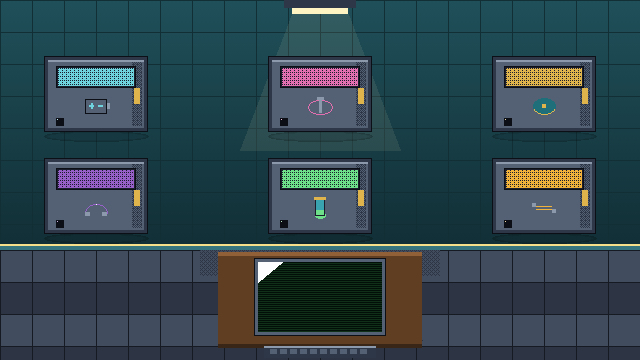
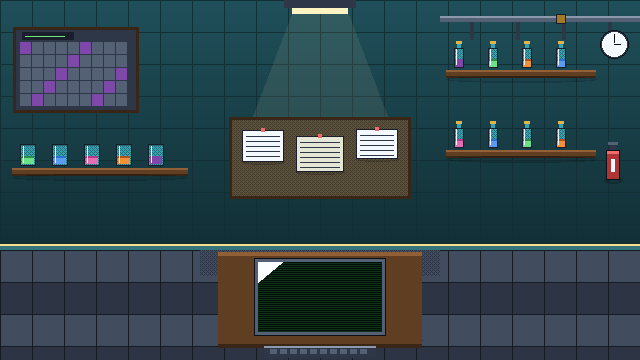
Hub-Szene neu gemalt: Schrank-Boxen raus, Labor-Deko rein
- scene_01_lab_hub.py: 6 Schraenke entfernt; stattdessen PSE-Poster +
  Reagenz-Regal (links), Pinnwand (Mitte), zwei Flaschen-Regale + Uhr +
  Feuerloescher (rechts), Rohrleitung oben. Konsole/Fenster-Platz bleiben.
- Scene1Hub: On-Canvas-LEDs und Ziel-Highlight der alten Boxen entfernt;
  Status liegt jetzt allein in der NavBar.

Claude-Session: https://claude.ai/code/session_016jetyFEwpoXZWLtf8hFDhj

diff --git a/src/scenes/Scene1Hub.js b/src/scenes/Scene1Hub.js
@@ -8,7 +8,6 @@ import {
 import AnimatedSprite from '../engine/AnimatedSprite';
 import { usePixelImage } from '../engine/usePixelImage';
 import { useStageLayout } from '../engine/layout';
-import { useSpriteFrame } from '../engine/useSprite';
 import PixelDialog from '../ui/PixelDialog';
 import Terminal from '../ui/Terminal';
 import CRTOverlay from '../ui/CRTOverlay';
@@ -52,7 +51,6 @@ export default function Scene1Hub({
   );
   const [terminalOpen, setTerminalOpen] = useState(false);
   const [pressed, setPressed] = useState(null);
-  const blink = useSpriteFrame(2, 1.6);
 
   // ── Animated scene state ────────────────────────────────────────────────────
   const [molarX, setMolarX] = useState(MOLAR.x);
@@ -150,12 +148,6 @@ export default function Scene1Hub({
 
   const target = ROOMS.find((r) => !solvedIds.includes(r.id)) || null;
   const busy = !!dialog || terminalOpen || molarLeaving;
-
-  const ledColor = (room) => {
-    if (solvedIds.includes(room.id)) return '#6fe87a';
-    if (target && room.id === target.id) return '#f0b23a';
-    return '#ad3535';
-  };
 
   const onDoor = (room) => {
     if (solvedIds.includes(room.id)) {
@@ -287,17 +279,7 @@ export default function Scene1Hub({
             />
           )}
 
-          {ROOMS.map((r) => (
-            <Group key={`led-${r.id}`}>
-              <Rect x={r.rect.x + 10} y={r.rect.y + r.rect.h - 14} width={8} height={8} color={ledColor(r)} />
-              <Rect x={r.rect.x + 10} y={r.rect.y + r.rect.h - 14} width={3} height={3} color="#ffffff" />
-            </Group>
-          ))}
-
-          {!busy && target && blink === 0 && (
-            <Rect x={target.rect.x - 1} y={target.rect.y - 1} width={target.rect.w + 2} height={target.rect.h + 2}
-              color="#f0b23a" style="stroke" strokeWidth={2} />
-          )}
+          {/* Konsole-Hover-Glow (Navigation/Status liegen in der NavBar) */}
           {!busy && pressed && (
             <PressGlow rectObj={pressed.rect} color={pressed.color} />
           )}

diff --git a/tools/pixelart/scene_01_lab_hub.py b/tools/pixelart/scene_01_lab_hub.py
@@ -1,47 +1,30 @@
 """
-Szene 1 — Molars Labor (Hub), NEUE Komposition. 640x360, Licht oben-links.
-  OBEN     : 6 Wandschraenke in einem 3x2-Raster (je Raum ein Akzent + Icon)
-  UNTEN    : Konsolen-Pult mittig mit CRT-Screen (App malt Status/Codes hinein)
+Szene 1 — Molars Labor (Hub). Komposition OHNE Schrank-Boxen: die Navigation
+laeuft jetzt ueber die untere Leiste (NavBar) in der App. Die Wandflaeche ist
+stattdessen mit Labor-DEKO gefuellt — Periodensystem-Poster, Reagenz-Regale,
+Pinnwand, Uhr, Feuerloescher. Mitte unten bleibt das Konsolen-Pult (Terminal),
+mitte oben bleibt Platz fuer das (in der App animierte) Fenster.
 
-Tap-Rects sind deckungsgleich mit ROOMS in src/config/game.js (Handoff #1):
-Die Schrankgrafik ist so eingerueckt, dass die Rects exakt auf dem Schrank liegen.
-Status-LED + Icon werden in der App eingefaerbt; hier Default-Gehaeuse + Icon.
-
-Exportiert assets/scenes/scene_01_lab_hub.png (+ _preview.png) + scene_01_hotspots.json.
+640x360, Licht oben-links. Exportiert assets/scenes/scene_01_lab_hub.png.
 """
 import os, json
 from palette import (WALL, FLOOR, GROUT, WOOD, BRASS, STEEL, GLASS, GLASS_HI,
-                     CRT, GLOW, INK, INK_SOFT, WHITE)
+                     CRT, GLOW, INK, INK_SOFT, WHITE,
+                     ACID, BASE, PINK, PURPLE, ORANGE, RED)
 import pixel_helpers as H
 
 OUT = os.path.join(os.path.dirname(__file__), "..", "..", "assets", "scenes")
 W, Hh = H.SCENE_W, H.SCENE_H
 FLOOR_Y = 250
 
-# Deckungsgleich mit der App (src/config/game.js) — Handoff #1
+# Nur noch die Konsole ist ein Hotspot (Navigation laeuft ueber die NavBar).
 HOTSPOTS = {
-    "door1": {"x": 44,  "y": 56,  "w": 104, "h": 76},
-    "door2": {"x": 268, "y": 56,  "w": 104, "h": 76},
-    "door3": {"x": 492, "y": 56,  "w": 104, "h": 76},
-    "door4": {"x": 44,  "y": 158, "w": 104, "h": 76},
-    "door5": {"x": 268, "y": 158, "w": 104, "h": 76},
-    "door6": {"x": 492, "y": 158, "w": 104, "h": 76},
     "console": {"x": 258, "y": 262, "w": 124, "h": 70},
 }
 
-# Akzentfarben je Schrank (Reihenfolge = door1..door6 = scene2..7)
-ACC = {
-    "door1": (111, 211, 221),   # Galvanische Zelle  #6fd3dd
-    "door2": (227, 111, 176),   # Opferanode         #e36fb0
-    "door3": (224, 180, 76),    # Rosten             #e0b44c
-    "door4": (150, 96, 200),    # Bromonium          #9660c8
-    "door5": (111, 224, 138),   # Bromwasser         #6fe08a
-    "door6": (240, 178, 58),    # Isomerie E/Z       #f0b23a
-}
-ICON = {
-    "door1": "battery", "door2": "nail", "door3": "rust",
-    "door4": "bridge",  "door5": "tube", "door6": "ez",
-}
+# Frei zu haltende Bereiche (App malt darauf): Fenster + Molar-Standplatz.
+WIN = (205, 14, 230, 94)        # x,y,w,h — Fenster (App)
+CORK = (90, 80, 60)             # Pinnwand-Kork
 
 
 def draw_wall(img, d):
@@ -66,75 +49,120 @@ def draw_lamp(img, d):
                        (W // 2 + 80, 150), (W // 2 - 80, 150)], GLOW[1], 22)
 
 
-def draw_icon(img, d, kind, cx, cy, acc):
-    if kind == "battery":                              # galvanische Zelle
-        H.rect(d, cx - 11, cy - 7, 22, 15, STEEL[1]); H.outline(d, cx - 11, cy - 7, 22, 15, INK)
-        H.rect(d, cx + 11, cy - 3, 3, 6, STEEL[2])
-        H.rect(d, cx - 7, cy - 1, 5, 2, acc); H.rect(d, cx - 5, cy - 3, 2, 6, acc)  # +
-        H.rect(d, cx + 2, cy - 1, 5, 2, acc)                                          # -
-    elif kind == "nail":                               # Opferanode (Nagel im Tropfen)
-        d.ellipse([cx - 12, cy - 6, cx + 12, cy + 8], outline=acc)
-        H.rect(d, cx - 1, cy - 9, 3, 16, STEEL[2]); H.rect(d, cx - 3, cy - 9, 7, 3, STEEL[2])
-    elif kind == "rust":                               # Rosten (Tropfen + Rostkante)
-        d.ellipse([cx - 11, cy - 8, cx + 11, cy + 8], fill=GLASS[0])
-        d.arc([cx - 11, cy - 8, cx + 11, cy + 8], 20, 160, fill=acc)
-        H.rect(d, cx - 2, cy - 2, 4, 4, acc)
-    elif kind == "bridge":                             # Bromonium-Bruecke
-        d.arc([cx - 11, cy - 4, cx + 11, cy + 14], 180, 360, fill=acc)
-        H.rect(d, cx - 11, cy + 4, 5, 4, STEEL[2]); H.rect(d, cx + 6, cy + 4, 5, 4, STEEL[2])
-        img.putpixel((cx, cy - 4), (*WHITE, 200))
-    elif kind == "tube":                               # Reagenzglas
-        H.rect(d, cx - 5, cy - 10, 10, 18, GLASS[1]);
-        d.ellipse([cx - 5, cy + 4, cx + 5, cy + 10], fill=acc)
-        H.rect(d, cx - 5, cy + 2, 10, 6, acc); H.outline(d, cx - 5, cy - 10, 10, 18, INK_SOFT)
-        H.rect(d, cx - 6, cy - 11, 12, 3, BRASS[2])
-    elif kind == "ez":                                 # E/Z Doppelbindung
-        H.hline(d, cx - 10, cy - 2, 20, acc); H.hline(d, cx - 10, cy + 1, 20, acc)
-        H.rect(d, cx - 12, cy - 5, 4, 4, STEEL[2]); H.rect(d, cx + 8, cy + 1, 4, 4, STEEL[2])
-        H.rect(d, cx - 12, cy + 1, 4, 4, STEEL[1]); H.rect(d, cx + 8, cy - 5, 4, 4, STEEL[1])
+# ── Deko-Bausteine ────────────────────────────────────────────────────────────
+def draw_beaker(img, d, x, y, ramp):
+    w, h = 16, 22
+    H.rect(d, x, y, w, h, GLASS[0])
+    H.dither_rect(img, x + 1, y + 2, w - 2, h - 3, GLASS[1], GLASS[0], 0.4)
+    H.rect(d, x + 2, y + h - 10, w - 4, 8, ramp[-1])
+    H.rect(d, x + 2, y + h - 10, w - 4, 2, ramp[0])
+    H.vline(d, x + 3, y + 2, h - 5, GLASS_HI)
+    H.outline(d, x, y, w, h, INK_SOFT)
+    img.putpixel((x + 3, y + 3), (*GLASS_HI, 200))
 
 
-def draw_cabinet(img, d, key):
-    hs = HOTSPOTS[key]
-    x, y, w, h = hs["x"], hs["y"], hs["w"], hs["h"]
-    acc = ACC[key]
-    H.soft_shadow(img, x + w // 2, y + h + 4, w // 2, 5, 60)
-    # Gehaeuse
-    H.rect(d, x, y, w, h, STEEL[0]); H.outline(d, x, y, w, h, INK)
-    H.rect(d, x + 4, y + 4, w - 8, h - 8, STEEL[1])
-    H.rect(d, x + 4, y + 4, w - 8, 2, STEEL[2])              # Lichtkante oben
-    H.dither_rect(img, x + w - 16, y + 6, 10, h - 12, STEEL[1], STEEL[0], 0.6)
-    # Sichtfenster oben (accent-getoent)
-    H.rect(d, x + 12, y + 10, w - 24, 22, INK_SOFT)
-    H.dither_rect(img, x + 14, y + 12, w - 28, 18, acc, INK_SOFT, 0.22)
-    H.outline(d, x + 12, y + 10, w - 24, 22, INK)
-    # Etched icon (accent)
-    draw_icon(img, d, ICON[key], x + w // 2, y + 50, acc)
-    # Griff rechts + Status-LED-Sockel (App malt Farbe)
-    H.rect(d, x + w - 14, y + h // 2 - 6, 6, 16, BRASS[2])
-    H.rect(d, x + 12, y + h - 14, 8, 8, INK)
-    img.putpixel((x + 13, y + h - 13), (*acc, 120))
+def draw_bottle(img, d, x, y, ramp):
+    H.rect(d, x + 3, y, 4, 5, GLASS[1])          # Hals
+    H.rect(d, x + 2, y - 2, 6, 3, BRASS[2])      # Kappe
+    H.rect(d, x, y + 5, 10, 20, GLASS[0])        # Koerper
+    H.dither_rect(img, x + 1, y + 6, 8, 18, GLASS[1], GLASS[0], 0.4)
+    H.rect(d, x + 1, y + 16, 8, 9, ramp[-1])     # Fuellung
+    H.rect(d, x + 1, y + 16, 8, 2, ramp[0])
+    H.vline(d, x + 2, y + 6, 16, GLASS_HI)
+    H.outline(d, x, y + 5, 10, 20, INK_SOFT)
+
+
+def draw_shelf(img, d, sx, sy, sw, items, kind="beaker"):
+    H.rect(d, sx, sy, sw, 6, WOOD[1])
+    H.rect(d, sx, sy, sw, 2, WOOD[2])
+    H.rect(d, sx, sy + 6, sw, 2, WOOD[0])
+    H.soft_shadow(img, sx + sw // 2, sy + 9, sw // 2, 3, 50)
+    n = len(items)
+    gap = (sw - 12) // n
+    for i, ramp in enumerate(items):
+        gx = sx + 8 + i * gap
+        if kind == "bottle":
+            draw_bottle(img, d, gx, sy - 27, ramp)
+        else:
+            draw_beaker(img, d, gx, sy - 24, ramp)
+
+
+def draw_poster(img, d, x, y, w, h):
+    H.rect(d, x - 3, y - 3, w + 6, h + 6, WOOD[0])      # Rahmen
+    H.rect(d, x, y, w, h, STEEL[0])
+    cols, rows = 9, 5
+    cw = (w - 8) // cols
+    ch = (h - 14) // rows
+    for r in range(rows):
+        for c in range(cols):
+            cell = PURPLE[0] if (r + c) % 5 == 0 else STEEL[1]
+            H.rect(d, x + 4 + c * cw, y + 12 + r * ch, cw - 1, ch - 1, cell)
+    H.rect(d, x + 6, y + 2, 52, 8, INK_SOFT)           # Titelschild
+    H.hline(d, x + 9, y + 6, 40, CRT[2])               # "PSE"-Glow
+
+
+def draw_corkboard(img, d, x, y, w, h):
+    H.rect(d, x - 3, y - 3, w + 6, h + 6, WOOD[0])
+    H.rect(d, x, y, w, h, CORK)
+    H.dither_rect(img, x, y, w, h, CORK, (70, 60, 44), 0.4)
+    notes = [(x + 10, y + 10, 42, 32, WHITE),
+             (x + 64, y + 16, 48, 36, (228, 230, 214)),
+             (x + 124, y + 9, 42, 30, WHITE)]
+    for (nx, ny, nw, nh, col) in notes:
+        H.soft_shadow(img, nx + nw // 2, ny + nh, nw // 2, 2, 50)
+        H.rect(d, nx, ny, nw, nh, col)
+        H.outline(d, nx, ny, nw, nh, INK_SOFT)
+        for ly in range(ny + 6, ny + nh - 3, 5):
+            H.hline(d, nx + 4, ly, nw - 8, STEEL[0])
+        H.rect(d, nx + nw // 2 - 2, ny - 2, 4, 4, RED[1])   # Pinnnadel
+
+
+def draw_clock(img, d, cx, cy, r):
+    d.ellipse([cx - r, cy - r, cx + r, cy + r], fill=STEEL[0], outline=INK)
+    d.ellipse([cx - r + 2, cy - r + 2, cx + r - 2, cy + r - 2], fill=WHITE)
+    H.vline(d, cx, cy - r + 4, r - 5, INK)    # Stundenzeiger
+    H.hline(d, cx, cy, r - 7, INK)            # Minutenzeiger
+    img.putpixel((cx, cy), (*INK, 255))
+
+
+def draw_extinguisher(img, d, x, y):
+    H.soft_shadow(img, x + 7, y + 30, 9, 3, 60)
+    H.rect(d, x, y, 14, 30, RED[0])
+    H.rect(d, x, y, 14, 4, RED[1])
+    H.rect(d, x + 4, y - 5, 6, 6, STEEL[0])   # Hals
+    H.rect(d, x + 2, y - 8, 10, 3, STEEL[1])  # Griff
+    H.rect(d, x + 5, y + 9, 4, 13, WHITE)     # Etikett
+    H.outline(d, x, y, 14, 30, INK)
+
+
+def draw_pipes(img, d):
+    # Rohrleitung oben rechts + Ventil
+    H.rect(d, 440, 16, 200, 6, STEEL[1])
+    H.rect(d, 440, 16, 200, 2, STEEL[2])
+    for vx in range(470, 640, 46):
+        H.rect(d, vx, 22, 4, 18, STEEL[0])
+    H.rect(d, 556, 14, 10, 10, BRASS[1])      # Ventilrad
+    H.outline(d, 556, 14, 10, 10, INK_SOFT)
 
 
 def draw_console(img, d):
     hs = HOTSPOTS["console"]
     sx, sy, sw, sh = hs["x"], hs["y"], hs["w"], hs["h"]
-    # Pult (Holz) unter dem Screen, ueber die ganze Mitte
     dx, dw = sx - 40, sw + 80
     H.soft_shadow(img, sx + sw // 2, sy + sh + 8, dw // 2, 7, 80)
     H.rect(d, dx, sy - 10, dw, sh + 26, WOOD[1])
     H.rect(d, dx, sy - 10, dw, 4, WOOD[2])
     H.rect(d, dx, sy + sh + 12, dw, 4, WOOD[0])
-    # Screen-Gehaeuse + dunkles Phosphor (App malt Inhalt)
-    H.rect(d, sx - 4, sy - 4, sw + 8, sh + 8, STEEL[1]); H.outline(d, sx - 4, sy - 4, sw + 8, sh + 8, INK)
+    H.rect(d, sx - 4, sy - 4, sw + 8, sh + 8, STEEL[1])
+    H.outline(d, sx - 4, sy - 4, sw + 8, sh + 8, INK)
     H.rect(d, sx, sy, sw, sh, CRT[0])
     H.dither_rect(img, sx, sy, sw, sh, CRT[0], CRT[1], 0.16)
     for ly in range(sy, sy + sh, 2):
         H.hline(d, sx, ly, sw, (2, 14, 8))
     d.polygon([(sx, sy), (sx + 24, sy), (sx, sy + 20)], fill=(*GLASS_HI, 36))
-    # Tastatur vorne
     ky = sy + sh + 14
-    H.rect(d, sx + 6, ky, sw - 12, 12, STEEL[0]); H.rect(d, sx + 6, ky, sw - 12, 2, STEEL[2])
+    H.rect(d, sx + 6, ky, sw - 12, 12, STEEL[0])
+    H.rect(d, sx + 6, ky, sw - 12, 2, STEEL[2])
     for kx in range(sx + 12, sx + sw - 12, 10):
         H.rect(d, kx, ky + 3, 7, 5, STEEL[1])
 
@@ -145,14 +173,28 @@ def build():
     draw_wall(img, d)
     draw_floor(img, d)
     draw_lamp(img, d)
-    for key in ["door1", "door2", "door3", "door4", "door5", "door6"]:
-        draw_cabinet(img, d, key)
+    draw_pipes(img, d)
+
+    # LINKS: Periodensystem-Poster + Reagenz-Regal (hinter Molars Standplatz)
+    draw_poster(img, d, 16, 30, 120, 80)
+    draw_shelf(img, d, 12, 168, 176, [ACID, BASE, PINK, ORANGE, PURPLE], "beaker")
+
+    # MITTE (unter dem Fenster): Pinnwand mit Notizen
+    draw_corkboard(img, d, 232, 120, 176, 76)
+
+    # RECHTS: zwei Regale + Uhr + Feuerloescher
+    draw_shelf(img, d, 446, 70, 150, [PURPLE, ACID, ORANGE, BASE], "bottle")
+    draw_shelf(img, d, 446, 150, 150, [PINK, BASE, ACID, ORANGE], "bottle")
+    draw_clock(img, d, 614, 44, 14)
+    draw_extinguisher(img, d, 606, 150)
+
     draw_console(img, d)
+
     H.save_png(img, os.path.join(OUT, "scene_01_lab_hub.png"))
     H.save_preview(img, os.path.join(OUT, "scene_01_lab_hub_preview.png"), 2)
     with open(os.path.join(os.path.dirname(__file__), "scene_01_hotspots.json"), "w") as f:
         json.dump(HOTSPOTS, f, indent=2)
-    print("scene_01_lab_hub.png 640x360 OK")
+    print("scene_01_lab_hub.png 640x360 OK (Deko statt Boxen)")
 
 
 if __name__ == "__main__":